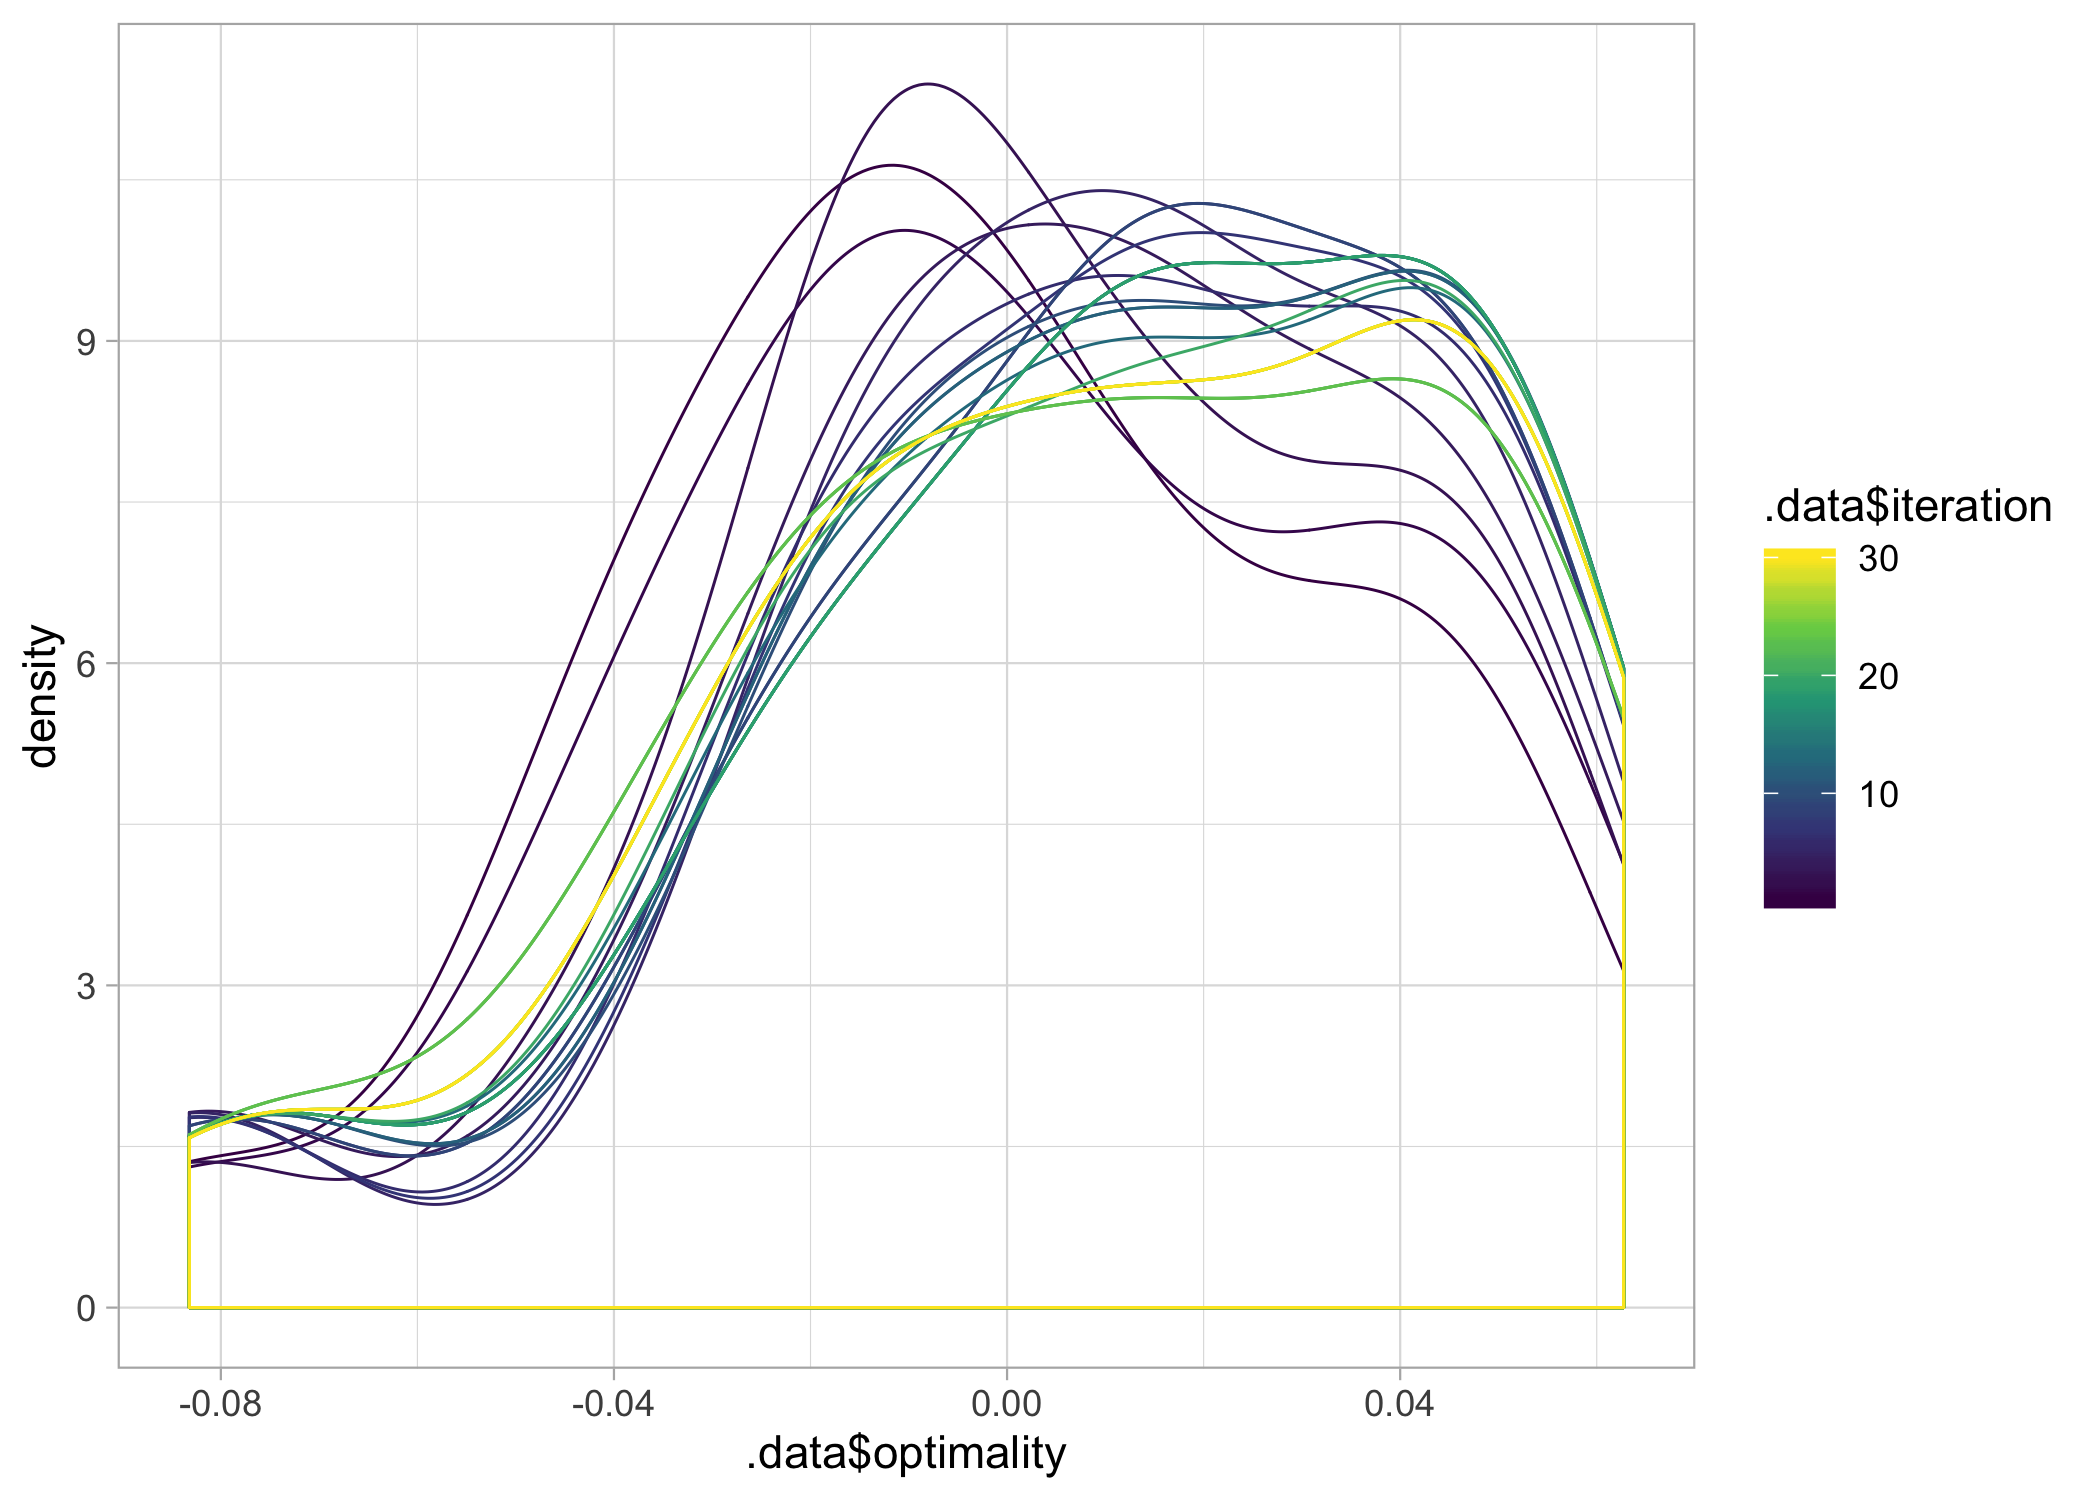
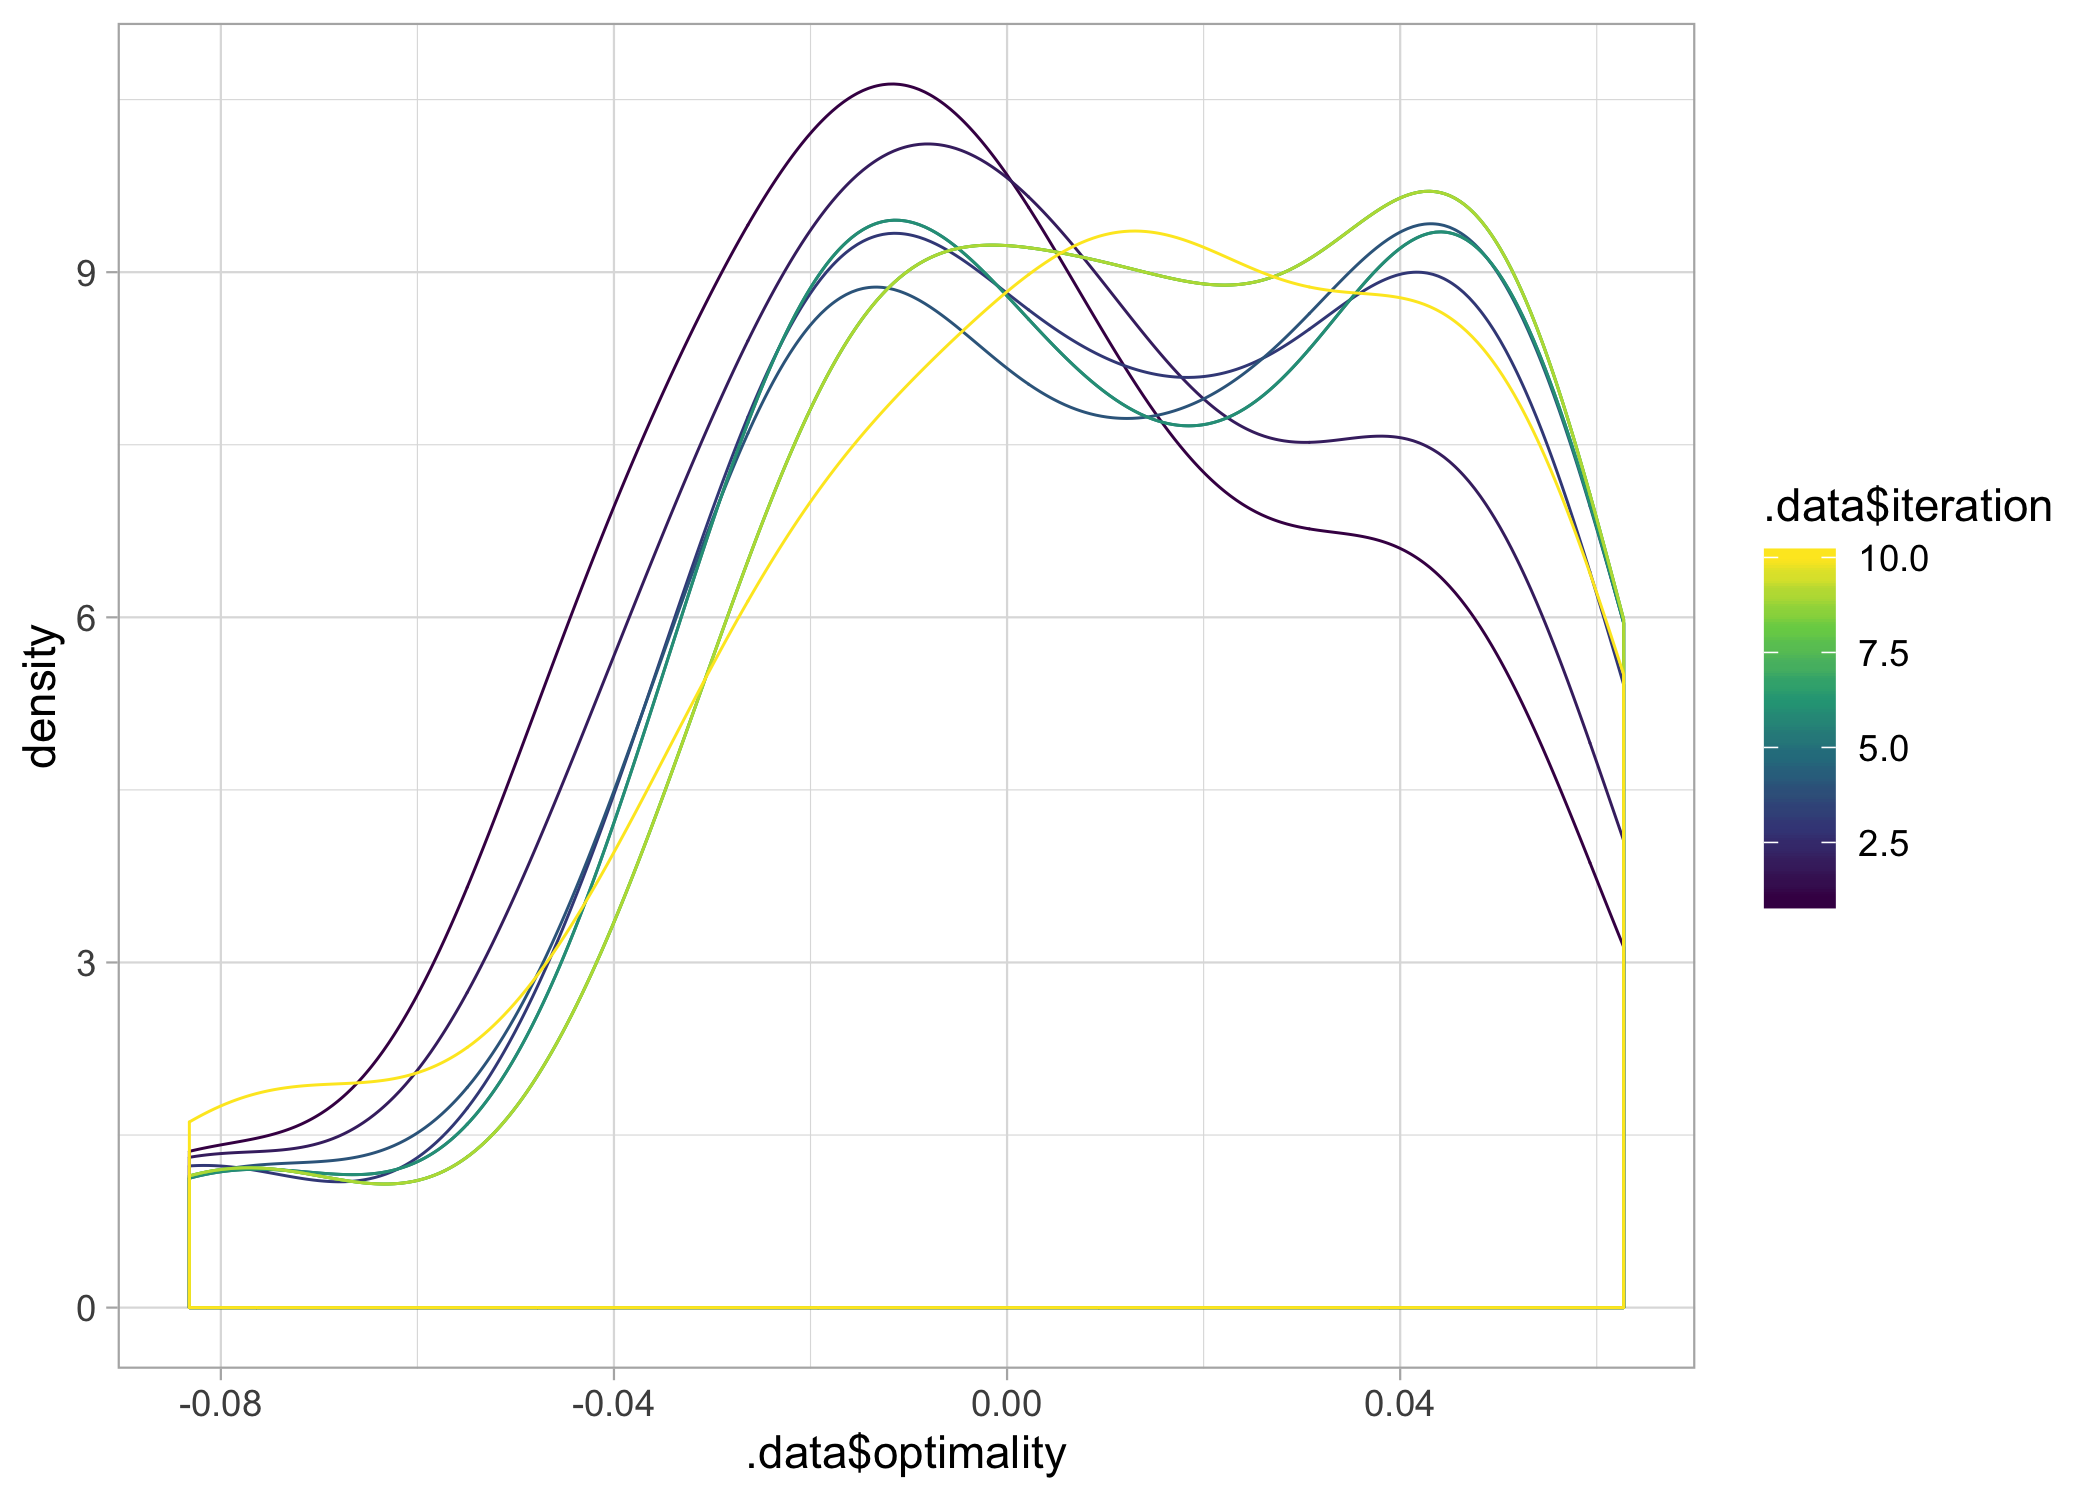
Readme updated

diff --git a/README.md b/README.md
@@ -39,10 +39,10 @@ What is special about using `README.Rmd` instead of just `README.md`? You can in
 
 ``` r
 sequence <- test_seq
-result <- optimizer(sequence, specie = "mouse", n_iterations = 30, make_more_optimal = T)
+result <- optimizer(sequence, specie = "mouse", n_iterations = 10, make_more_optimal = T)
 #> optimizing sequence (more optimal)
 #> starting genetic algorithm ...
-#> 2.3.4.5.6.7.8.9.10.11.12.13.14.15.16.17.18.19.20.21.22.23.24.25.26.27.28.29.30.
+#> 2.3.4.5.6.7.8.9.10.
 ```
 
 Visualizing the results
